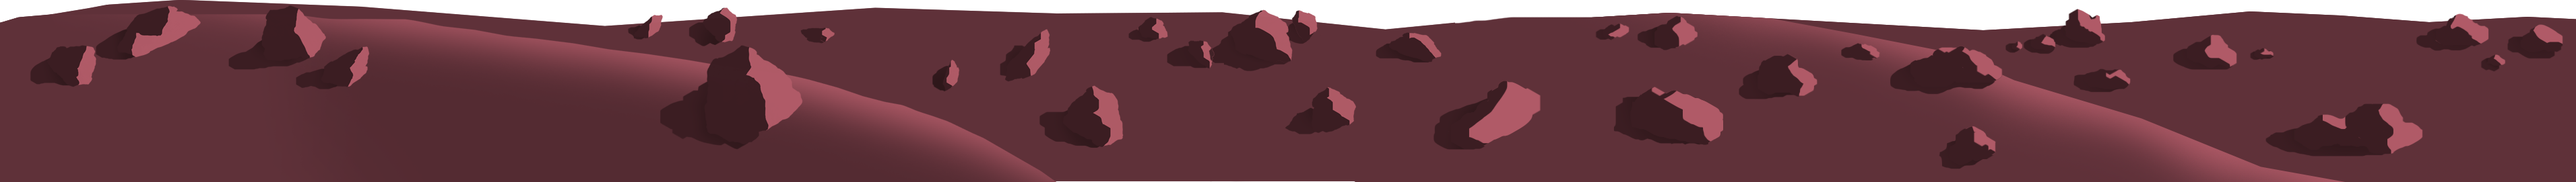
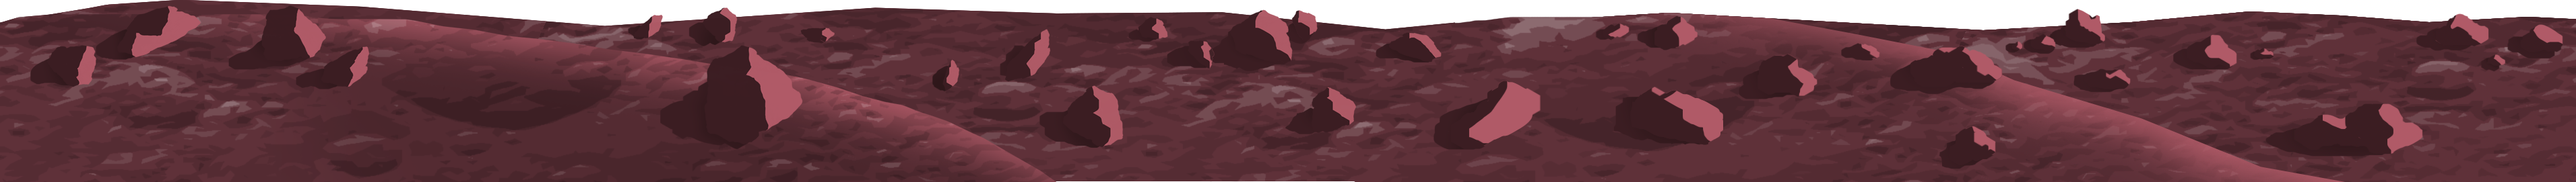
Update level 2 graphics + change bonus activation to control

diff --git a/player.go b/player.go
@@ -508,7 +508,7 @@ func (p *player) applyPowerUp() {
 }
 
 func (p *player) managePowerUp(g *game) {
-	if inpututil.IsKeyJustPressed(ebiten.KeyEnter) {
+	if inpututil.IsKeyJustPressed(ebiten.KeyControl) {
 		if !p.allPowerUp && p.isAppliablePowerUp(p.currentPowerUp) {
 			p.applyPowerUp()
 			g.playSound(useBonusSound)

diff --git a/level2.go b/level2.go
@@ -28,6 +28,9 @@ func (g *game) setUpLevel2() {
 	l.firstPlanHeight = 271
 	l.secondPlanHeight = 419
 	l.thirdPlanHeight = 465
+	l.fourthPlanYShift = 7
+	l.fourthPlanTotalXShift = screenWidth - 488
+	l.levelTotalFrames = 0
 	l.spawnSequence = level2SpawnSequence
 
 	g.level = l
